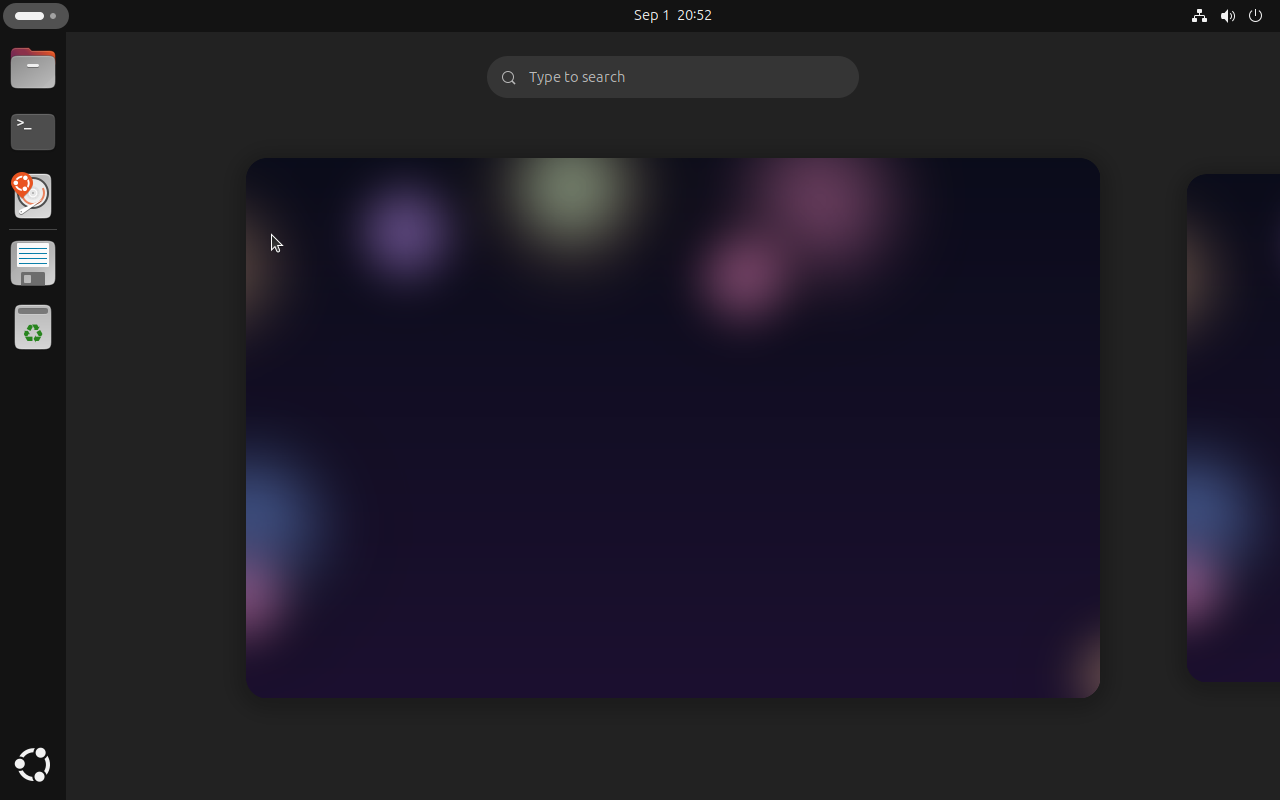
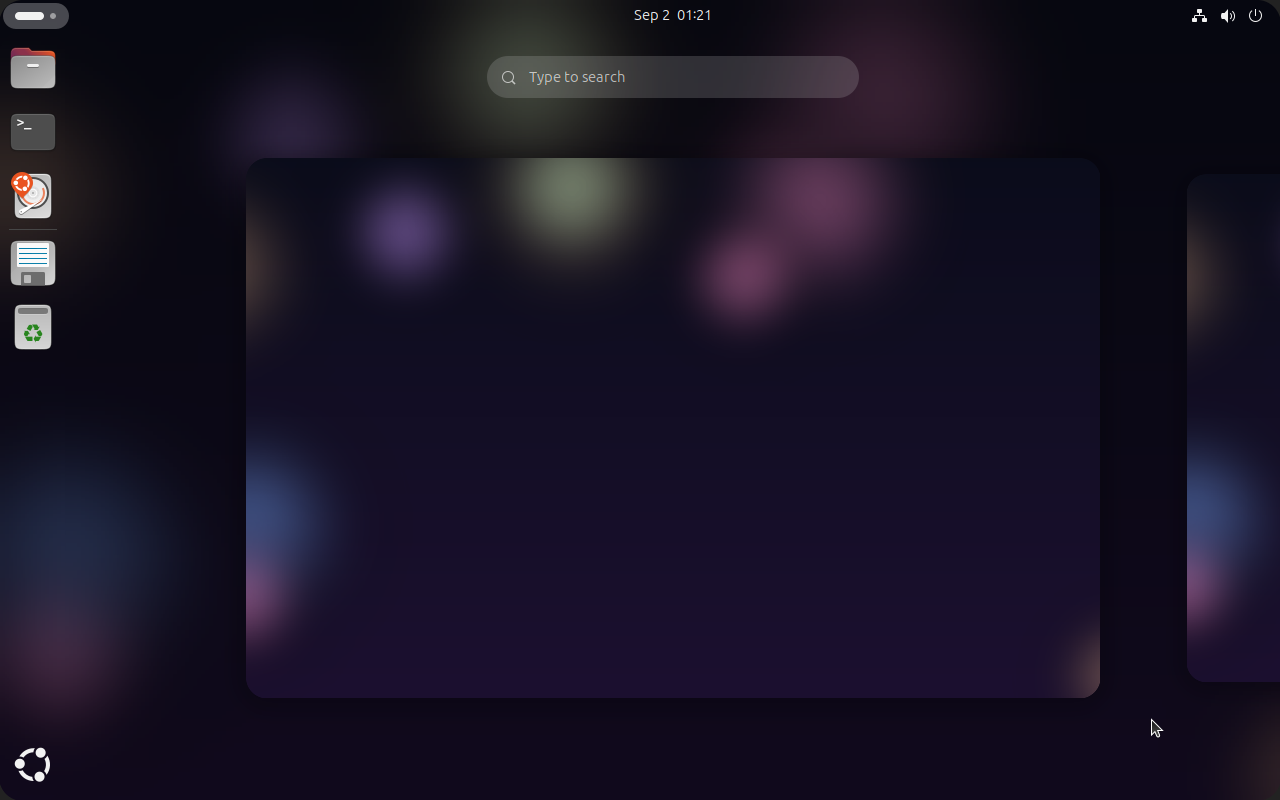
Update screenshots from the verified v1.0.1 release ISO
Recaptured from the published v1.0.1 parts, reassembled and checked against
the release .sha256 (813c1016...) before booting, so these are the exact bits
being shipped. Shows the single branded "Install Liquid OS" icon that replaced
the duplicate pair, and the liquid@liquidos session.

diff --git a/README.md b/README.md
@@ -59,7 +59,7 @@ Liquid OS is built by a GitHub Actions workflow in this repo (see
 local build environment needed on your end.
 
 - **Download the latest release:**
-  [v1.0.0](https://github.com/codemastervy/liquid-os/releases/tag/v1.0.0).
+  [v1.0.1](https://github.com/codemastervy/liquid-os/releases/tag/v1.0.1).
   The ISO is ~2.4 GB and GitHub caps release assets at 2 GB, so it is
   published as split parts. Reassemble and verify with:
 
